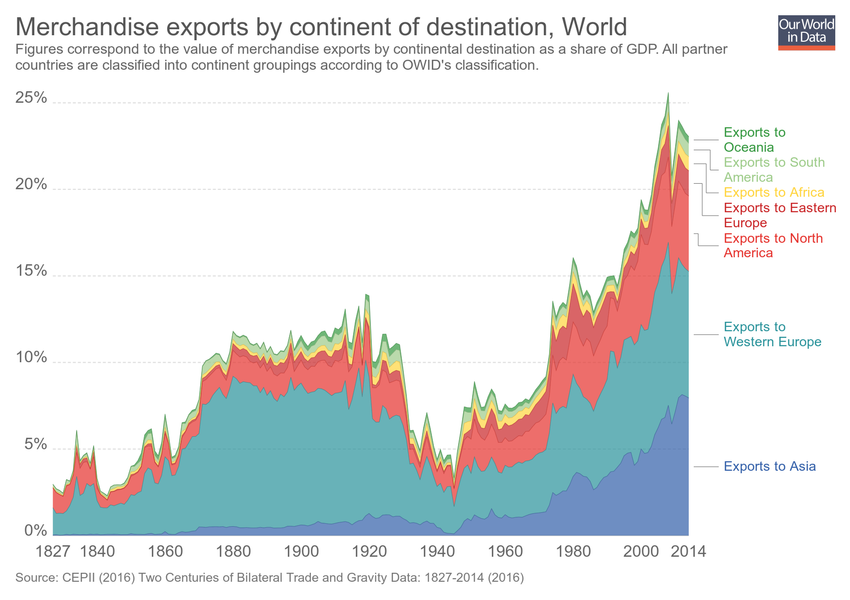
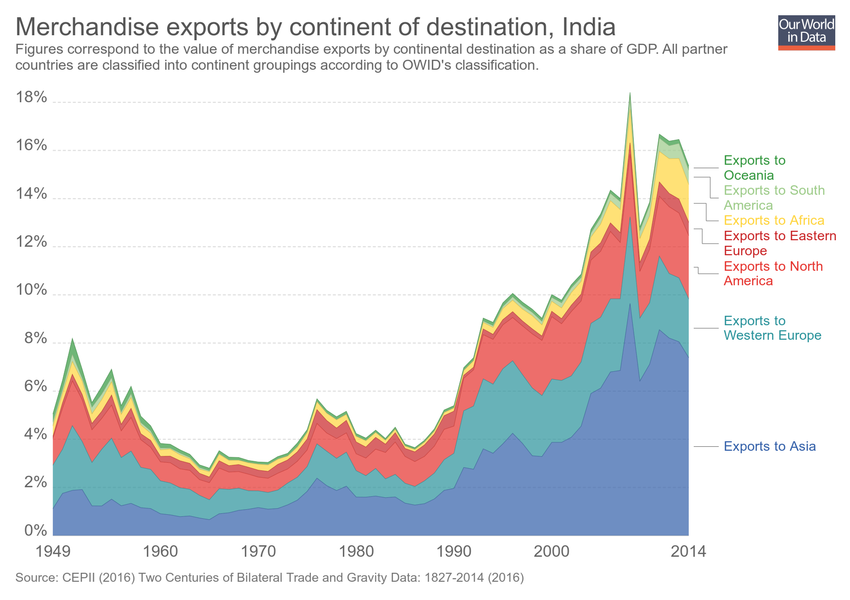
Updating chart merchandise-exports-by-continent

diff --git a/grapher/merchandise-exports-by-continent.html b/grapher/merchandise-exports-by-continent.html
@@ -1,4 +1,4 @@
-<!doctype html><html><head><meta name="viewport" content="width=device-width, initial-scale=1" /><title>Merchandise exports by continent of destination - Our World in Data</title><meta name="description" content="Figures correspond to the value of merchandise exports by continental destination as a share of GDP. All partner countries are classified into continent groupings according to OWID's classification. " /><link rel="canonical" href="https://ourworldindata.org/grapher/merchandise-exports-by-continent" /><meta property="fb:app_id" content="1149943818390250" /><meta property="og:url" content="https://ourworldindata.org/grapher/merchandise-exports-by-continent" /><meta property="og:title" content="Merchandise exports by continent of destination" /><meta property="og:description" content="Figures correspond to the value of merchandise exports by continental destination as a share of GDP. All partner countries are classified into continent groupings according to OWID's classification. " /><meta property="og:image" content="https://ourworldindata.org/grapher/exports/merchandise-exports-by-continent.png?v=6" /><meta property="og:image:width" content="850" /><meta property="og:image:height" content="600" /><meta property="og:site_name" content="Our World in Data" /><meta name="twitter:card" content="summary_large_image" /><meta name="twitter:site" content="@OurWorldInData" /><meta name="twitter:creator" content="@OurWorldInData" /><meta name="twitter:title" content="Merchandise exports by continent of destination" /><meta name="twitter:description" content="Figures correspond to the value of merchandise exports by continental destination as a share of GDP. All partner countries are classified into continent groupings according to OWID's classification. " /><meta name="twitter:image" content="https://ourworldindata.org/grapher/exports/merchandise-exports-by-continent.png?v=6" /><style>
+<!doctype html><html><head><meta name="viewport" content="width=device-width, initial-scale=1" /><title>Merchandise exports by continent of destination - Our World in Data</title><meta name="description" content="Figures correspond to the value of merchandise exports by continental destination as a share of GDP. All partner countries are classified into continent groupings according to OWID's classification. " /><link rel="canonical" href="https://ourworldindata.org/grapher/merchandise-exports-by-continent" /><meta property="fb:app_id" content="1149943818390250" /><meta property="og:url" content="https://ourworldindata.org/grapher/merchandise-exports-by-continent" /><meta property="og:title" content="Merchandise exports by continent of destination" /><meta property="og:description" content="Figures correspond to the value of merchandise exports by continental destination as a share of GDP. All partner countries are classified into continent groupings according to OWID's classification. " /><meta property="og:image" content="https://ourworldindata.org/grapher/exports/merchandise-exports-by-continent.png?v=8" /><meta property="og:image:width" content="850" /><meta property="og:image:height" content="600" /><meta property="og:site_name" content="Our World in Data" /><meta name="twitter:card" content="summary_large_image" /><meta name="twitter:site" content="@OurWorldInData" /><meta name="twitter:creator" content="@OurWorldInData" /><meta name="twitter:title" content="Merchandise exports by continent of destination" /><meta name="twitter:description" content="Figures correspond to the value of merchandise exports by continental destination as a share of GDP. All partner countries are classified into continent groupings according to OWID's classification. " /><meta name="twitter:image" content="https://ourworldindata.org/grapher/exports/merchandise-exports-by-continent.png?v=8" /><style>
         html, body {
             height: 100%;
             margin: 0;
@@ -20,8 +20,8 @@
         }
     </style><noscript><style>
                     figure { display: none !important; }
-                </style></noscript><link rel="stylesheet" href="https://ourworldindata.org/grapher/assets/commons.bundle.9b8c6ed3f71d7662b5f2.css" /><link rel="preload" href="/grapher/data/variables/96415+96416+96410+96413+96414+96417+96412.json?v=6" as="fetch" crossorigin /></head><body class="singleChart"><figure data-grapher-src="/grapher/merchandise-exports-by-continent"></figure><noscript id="fallback"><img src="/grapher/exports/merchandise-exports-by-continent.svg" /><p>Interactive visualization requires JavaScript</p></noscript><script src="https://cdn.polyfill.io/v2/polyfill.min.js?features=es6,fetch"></script><script src="https://ourworldindata.org/grapher/assets/commons.bundle.9b8c6ed3f71d7662b5f2.js"></script><script src="https://ourworldindata.org/grapher/assets/charts.bundle.9b8c6ed3f71d7662b5f2.js"></script><script>
-        var jsonConfig = {"id":2499,"map":{"projection":"World","colorSchemeLabels":[],"colorSchemeValues":[],"colorSchemeMinValue":0,"customNumericColors":[],"customCategoryColors":{},"customCategoryLabels":{},"customHiddenCategories":{}},"tab":"chart","slug":"merchandise-exports-by-continent","type":"StackedArea","title":"Merchandise exports by continent of destination","xAxis":{"scaleType":"linear"},"yAxis":{"min":0,"scaleType":"linear"},"version":6,"subtitle":"Figures correspond to the value of merchandise exports by continental destination as a share of GDP. All partner countries are classified into continent groupings according to OWID's classification. ","hasMapTab":false,"stackMode":"absolute","dimensions":[{"display":{"name":"Exports to Oceania"},"property":"y","variableId":96415},{"display":{"name":"Exports to South America"},"property":"y","variableId":96416},{"display":{"name":"Exports to Africa"},"property":"y","variableId":96410},{"display":{"name":"Exports to Eastern Europe"},"property":"y","variableId":96413},{"display":{"name":"Exports to North America"},"property":"y","variableId":96414},{"display":{"name":"Exports to Western Europe"},"property":"y","variableId":96417},{"display":{"name":"Exports to Asia"},"property":"y","variableId":96412}],"entityType":"entity","hasChartTab":true,"isPublished":true,"selectedData":[{"index":0,"entityId":355},{"index":1,"entityId":355},{"index":2,"entityId":355},{"index":3,"entityId":355},{"index":4,"entityId":355},{"index":5,"entityId":355},{"index":6,"entityId":355}],"addCountryMode":"change-country"};
+                </style></noscript><link rel="stylesheet" href="https://ourworldindata.org/grapher/assets/commons.bundle.9b8c6ed3f71d7662b5f2.css" /><link rel="preload" href="/grapher/data/variables/96415+96416+96410+96413+96414+96417+96412.json?v=8" as="fetch" crossorigin /></head><body class="singleChart"><figure data-grapher-src="/grapher/merchandise-exports-by-continent"></figure><noscript id="fallback"><img src="/grapher/exports/merchandise-exports-by-continent.svg" /><p>Interactive visualization requires JavaScript</p></noscript><script src="https://cdn.polyfill.io/v2/polyfill.min.js?features=es6,fetch"></script><script src="https://ourworldindata.org/grapher/assets/commons.bundle.9b8c6ed3f71d7662b5f2.js"></script><script src="https://ourworldindata.org/grapher/assets/charts.bundle.9b8c6ed3f71d7662b5f2.js"></script><script>
+        var jsonConfig = {"id":2499,"map":{"projection":"World","colorSchemeLabels":[],"colorSchemeValues":[],"colorSchemeMinValue":0,"customNumericColors":[],"customCategoryColors":{},"customCategoryLabels":{},"customHiddenCategories":{}},"tab":"chart","slug":"merchandise-exports-by-continent","type":"StackedArea","title":"Merchandise exports by continent of destination","xAxis":{"scaleType":"linear"},"yAxis":{"min":0,"scaleType":"linear"},"version":8,"subtitle":"Figures correspond to the value of merchandise exports by continental destination as a share of GDP. All partner countries are classified into continent groupings according to OWID's classification. ","hasMapTab":false,"stackMode":"absolute","dimensions":[{"display":{"name":"Exports to Oceania"},"property":"y","variableId":96415},{"display":{"name":"Exports to South America"},"property":"y","variableId":96416},{"display":{"name":"Exports to Africa"},"property":"y","variableId":96410},{"display":{"name":"Exports to Eastern Europe"},"property":"y","variableId":96413},{"display":{"name":"Exports to North America"},"property":"y","variableId":96414},{"display":{"name":"Exports to Western Europe"},"property":"y","variableId":96417},{"display":{"name":"Exports to Asia"},"property":"y","variableId":96412}],"entityType":"entity","hasChartTab":true,"isPublished":true,"selectedData":[{"index":0,"entityId":137},{"index":1,"entityId":137},{"index":2,"entityId":137},{"index":3,"entityId":137},{"index":4,"entityId":137},{"index":5,"entityId":137},{"index":6,"entityId":137}],"addCountryMode":"change-country"};
         var figure = document.getElementsByTagName("figure")[0];
         try {
             window.App = {};
